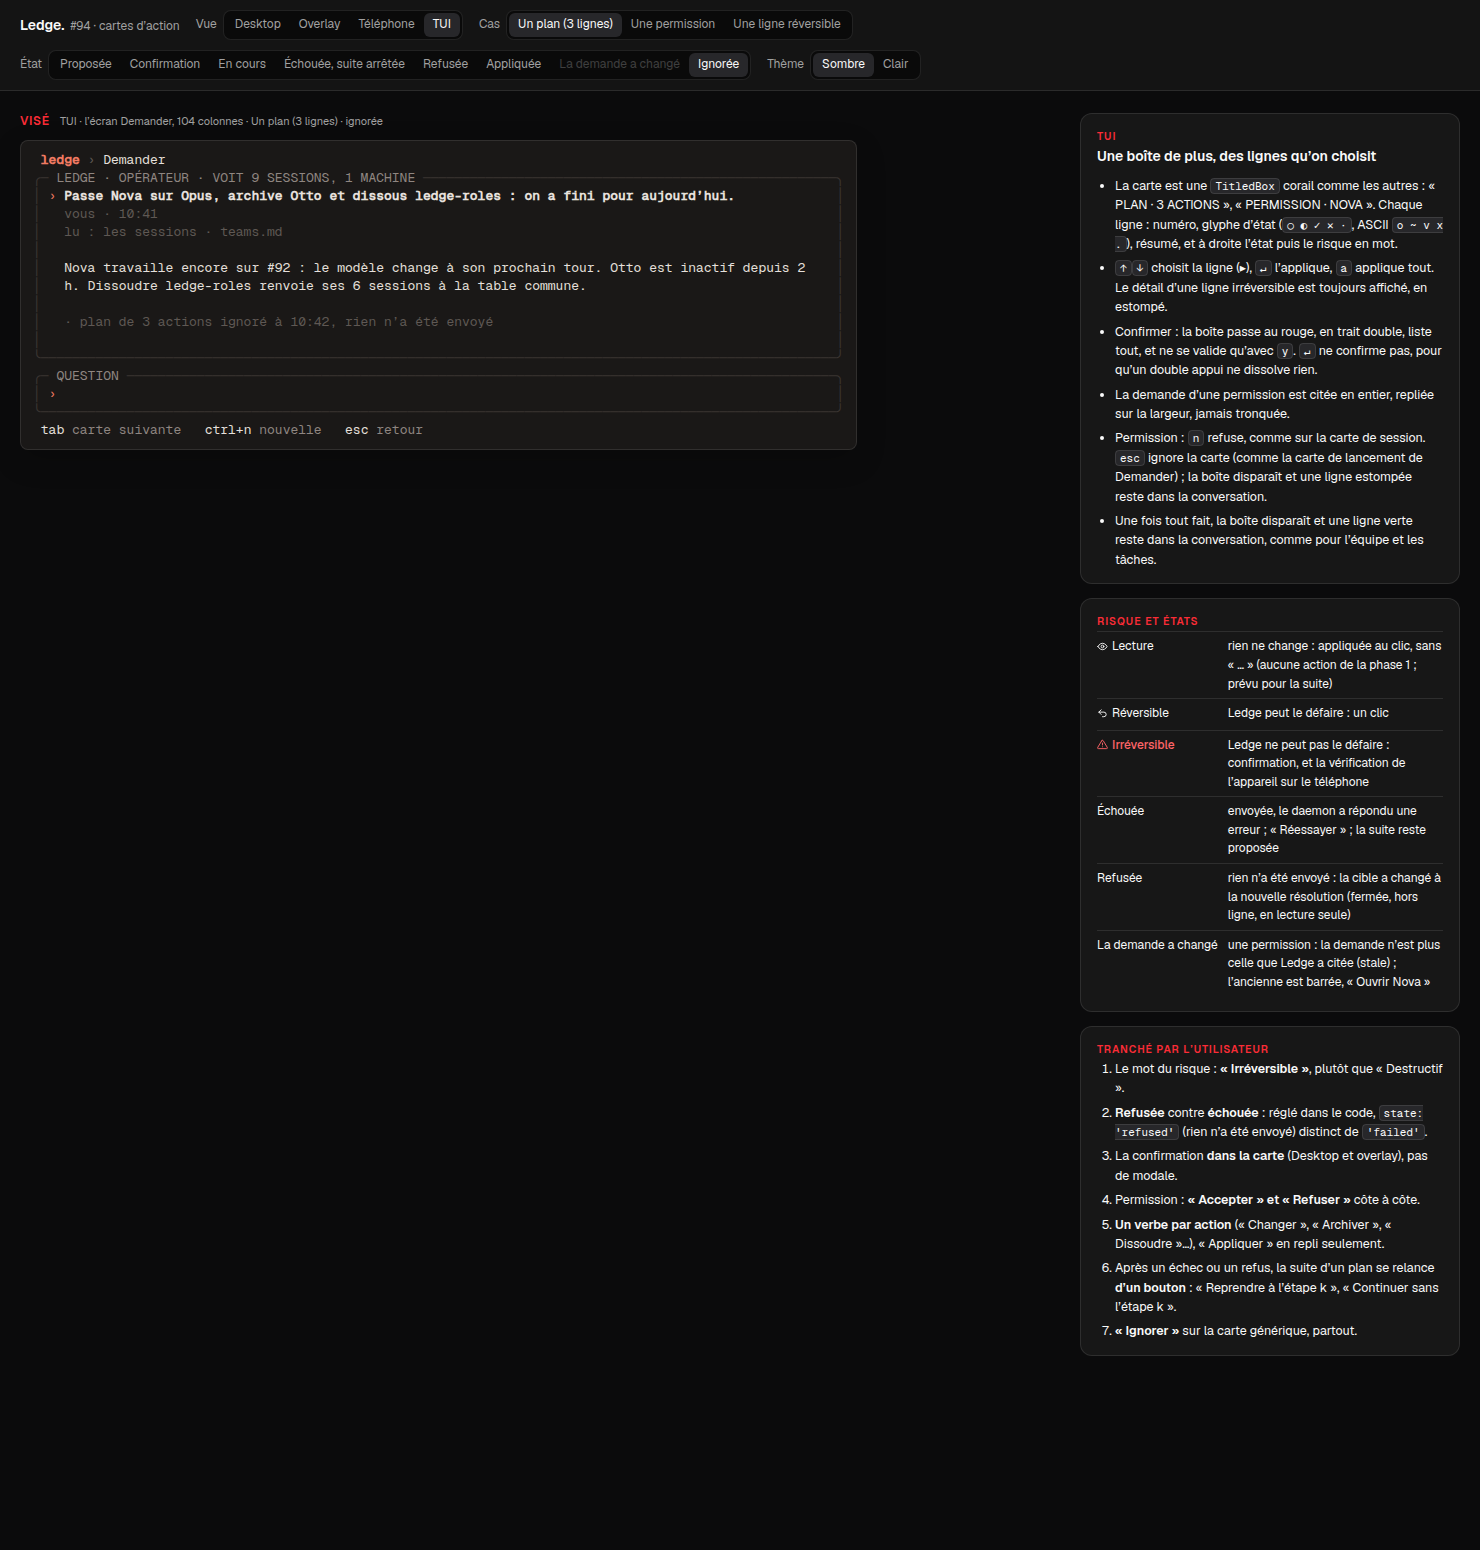
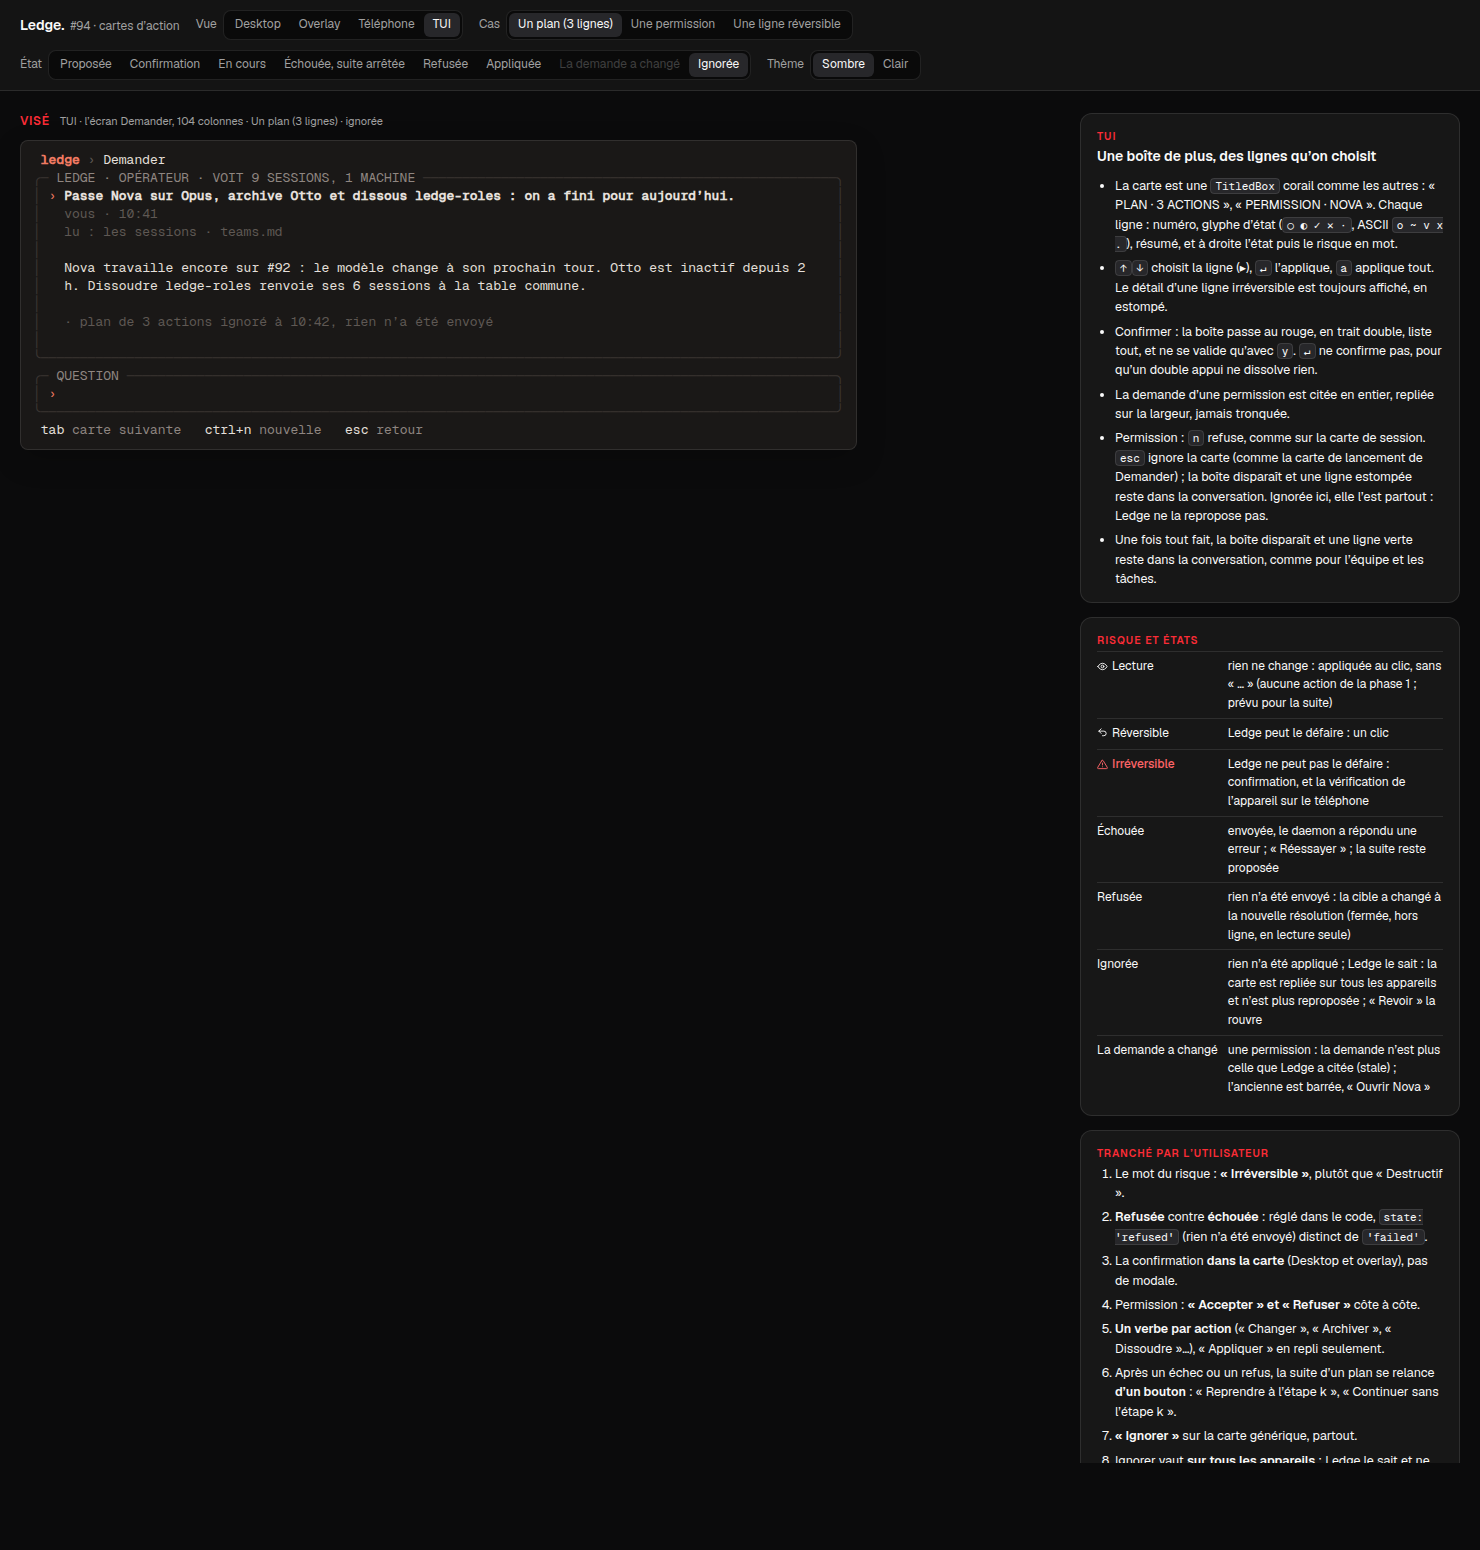
docs(mockups): action cards (#94) — Ignorer counts on every device
The user decided: « Ignorer » folds the card on every device, Ledge knows
it and doesn't offer the card again. Noted in « Tranché par l'utilisateur »;
the card, phone and TUI notes no longer say Ledge isn't told; the states
table gets an « Ignorée » row. Captures redone (notes column only).

Changed region(s): [[0.7459, 0.3097, 0.9635, 0.96]]

diff --git a/docs/mockups/ledge-action-card.html b/docs/mockups/ledge-action-card.html
@@ -285,7 +285,8 @@ function model() {
 }
 
 // ---- Desktop and overlay: one component, ActionCard ----
-// « Ignorer » hides the card, sends nothing; a quiet line keeps its trace in the chat (like the phone's RelayCard).
+// « Ignorer » hides the card on every device and runs nothing; Ledge records it and doesn't offer the card again.
+// A quiet line keeps its trace in the chat (like the phone's RelayCard).
 const IGNORE = '<button class="btn ghost" type="button">Ignorer</button>';
 function nodeOf(s, i) {
   if (s === 'done') return `<span class="node done" aria-label="Étape ${i + 1}, appliquée">${ic('check', 11)}</span>`;
@@ -505,14 +506,14 @@ const NOTES = {
     <li><b>Le rail d’ordre</b> : à partir de 2 lignes, chaque ligne a un nœud numéroté relié aux autres, parce que l’ordre compte (on s’arrête au premier échec). Le nœud porte l’état : numéro (proposée), anneau qui tourne (en cours), ✓ (appliquée), ✕ (échouée ou refusée), pointillés (pas appliquée, le plan s’est arrêté avant). Une seule ligne : pas de rail.</li>
     <li>Une ligne = le <code>summary</code> du daemon (noms en gras), puis le risque, <b>icône et mot</b>, lisible sans la couleur. Bouton à droite, <b>un verbe par action</b> (« Changer », « Archiver », « Dissoudre… »), « Appliquer » en repli seulement, pour une action inconnue du front.</li>
     <li><b>Permission</b> : « Refuser » à côté de « Accepter… », sans repasser par Ledge. Refuser n’a pas de « … » ni de confirmation : ne rien laisser faire ne se défait pas mal. Une fois envoyé : « ✓ Refus envoyé · 10:42 ».</li>
-    <li><b>« Ignorer »</b>, partout, en bouton discret à gauche des autres (le pied pour un plan, la ligne pour une seule action), comme « Ignorer » de la carte de relais du téléphone : la carte se replie en une ligne « Carte ignorée à 10:42 · rien n’a été envoyé · Revoir ». Ledge n’en est pas prévenu.</li>
+    <li><b>« Ignorer »</b>, partout, en bouton discret à gauche des autres (le pied pour un plan, la ligne pour une seule action), comme « Ignorer » de la carte de relais du téléphone : la carte se replie en une ligne « Carte ignorée à 10:42 · rien n’a été envoyé · Revoir ». Ignorer vaut <b>sur tous les appareils</b> : Ledge le sait, la carte se replie partout (Desktop, île, téléphone, TUI) et Ledge ne la repropose pas.</li>
     <li>Irréversible : fond teinté, nœud et mot en rouge, « … » sur le bouton (une confirmation suit), le <code>detail</code> sur 2 lignes, en entier dans la confirmation.</li>
     <li>Pied : « Tout appliquer (n) » ; après un échec, « Reprendre à l’étape k (n) » ; après un refus, « Continuer sans l’étape k (n) », puisque la rejouer serait refusé encore. Une fois tout fait, la carte garde sa trace : « ✓ Plan appliqué à 10:42 ».</li>
     <li><b>Confirmation dans la carte</b>, pas en modale : la carte elle-même devient la liste (bordure rouge, boutons de ligne retirés, détails dépliés, lignes faites estompées), et le pied pose la question. Le focus va sur « Annuler » ; <kbd>Échap</kbd> annule. Même composant pour le Desktop et l’overlay, sans fenêtre par-dessus l’île.</li></ul></div>`,
   phone: `<div class="note"><h3>Téléphone</h3><h4>La même carte, une feuille pour confirmer</h4><ul>
     <li>Les jetons du téléphone (sombre seulement), les boutons de 44 px, le bouton de ligne <b>sous</b> le texte : la largeur ne permet pas de les mettre côte à côte.</li>
     <li>Confirmer ouvre une feuille par le bas qui reprend chaque ligne à appliquer avec son détail entier, puis la vérification de l’appareil (<code>ConfirmPurpose</code> <code>act</code>, sujet le qid ; <code>decide</code> pour une permission). Le texte est celui de la confirmation actuelle (« Elle confirme votre identité, pas la sûreté de la commande »).</li>
-    <li>« Ignorer » en bouton fantôme à gauche, comme la carte de relais ; pour une permission, trois boutons sur une ligne : Ignorer, Refuser, Accepter….</li>
+    <li>« Ignorer » en bouton fantôme à gauche, comme la carte de relais ; pour une permission, trois boutons sur une ligne : Ignorer, Refuser, Accepter…. Ignorée ici, la carte l’est aussi sur le Desktop et dans la TUI.</li>
     <li>Une ligne réversible sans vérification (<code>phone: null</code>) s’applique au toucher, sans feuille.</li>
     <li>Vérification annulée ou expirée : la carte reste proposée et dit « Vérification annulée. Rien n’a été envoyé. » (texte existant).</li></ul></div>`,
   tui: `<div class="note"><h3>TUI</h3><h4>Une boîte de plus, des lignes qu’on choisit</h4><ul>
@@ -520,7 +521,7 @@ const NOTES = {
     <li><kbd>↑</kbd><kbd>↓</kbd> choisit la ligne (▸), <kbd>↵</kbd> l’applique, <kbd>a</kbd> applique tout. Le détail d’une ligne irréversible est toujours affiché, en estompé.</li>
     <li>Confirmer : la boîte passe au rouge, en trait double, liste tout, et ne se valide qu’avec <kbd>y</kbd>. <kbd>↵</kbd> ne confirme pas, pour qu’un double appui ne dissolve rien.</li>
     <li>La demande d’une permission est citée en entier, repliée sur la largeur, jamais tronquée.</li>
-    <li>Permission : <kbd>n</kbd> refuse, comme sur la carte de session. <kbd>esc</kbd> ignore la carte (comme la carte de lancement de Demander) ; la boîte disparaît et une ligne estompée reste dans la conversation.</li>
+    <li>Permission : <kbd>n</kbd> refuse, comme sur la carte de session. <kbd>esc</kbd> ignore la carte (comme la carte de lancement de Demander) ; la boîte disparaît et une ligne estompée reste dans la conversation. Ignorée ici, elle l’est partout : Ledge ne la repropose pas.</li>
     <li>Une fois tout fait, la boîte disparaît et une ligne verte reste dans la conversation, comme pour l’équipe et les tâches.</li></ul></div>`,
   risks: `<div class="note"><h3>Risque et états</h3><table>
     <tr><td>${riskChip('read')}</td><td>rien ne change : appliquée au clic, sans « … » (aucune action de la phase 1 ; prévu pour la suite)</td></tr>
@@ -528,6 +529,7 @@ const NOTES = {
     <tr><td>${riskChip('destructive')}</td><td>Ledge ne peut pas le défaire : confirmation, et la vérification de l’appareil sur le téléphone</td></tr>
     <tr><td>Échouée</td><td>envoyée, le daemon a répondu une erreur ; « Réessayer » ; la suite reste proposée</td></tr>
     <tr><td>Refusée</td><td>rien n’a été envoyé : la cible a changé à la nouvelle résolution (fermée, hors ligne, en lecture seule)</td></tr>
+    <tr><td>Ignorée</td><td>rien n’a été appliqué ; Ledge le sait : la carte est repliée sur tous les appareils et n’est plus reproposée ; « Revoir » la rouvre</td></tr>
     <tr><td>La demande a changé</td><td>une permission : la demande n’est plus celle que Ledge a citée (stale) ; l’ancienne est barrée, « Ouvrir Nova »</td></tr></table></div>`
 };
 const OPEN = `<div class="note"><h3>Tranché par l’utilisateur</h3><ol>
@@ -537,7 +539,8 @@ const OPEN = `<div class="note"><h3>Tranché par l’utilisateur</h3><ol>
   <li>Permission : <b>« Accepter » et « Refuser »</b> côte à côte.</li>
   <li><b>Un verbe par action</b> (« Changer », « Archiver », « Dissoudre »…), « Appliquer » en repli seulement.</li>
   <li>Après un échec ou un refus, la suite d’un plan se relance <b>d’un bouton</b> : « Reprendre à l’étape k », « Continuer sans l’étape k ».</li>
-  <li><b>« Ignorer »</b> sur la carte générique, partout.</li></ol></div>`;
+  <li><b>« Ignorer »</b> sur la carte générique, partout.</li>
+  <li>Ignorer vaut <b>sur tous les appareils</b> : Ledge le sait et ne repropose pas la carte.</li></ol></div>`;
 
 // ---- Chrome ----
 function label() { return ETATS.find(([k]) => k === st.etat)[1].toLowerCase(); }
